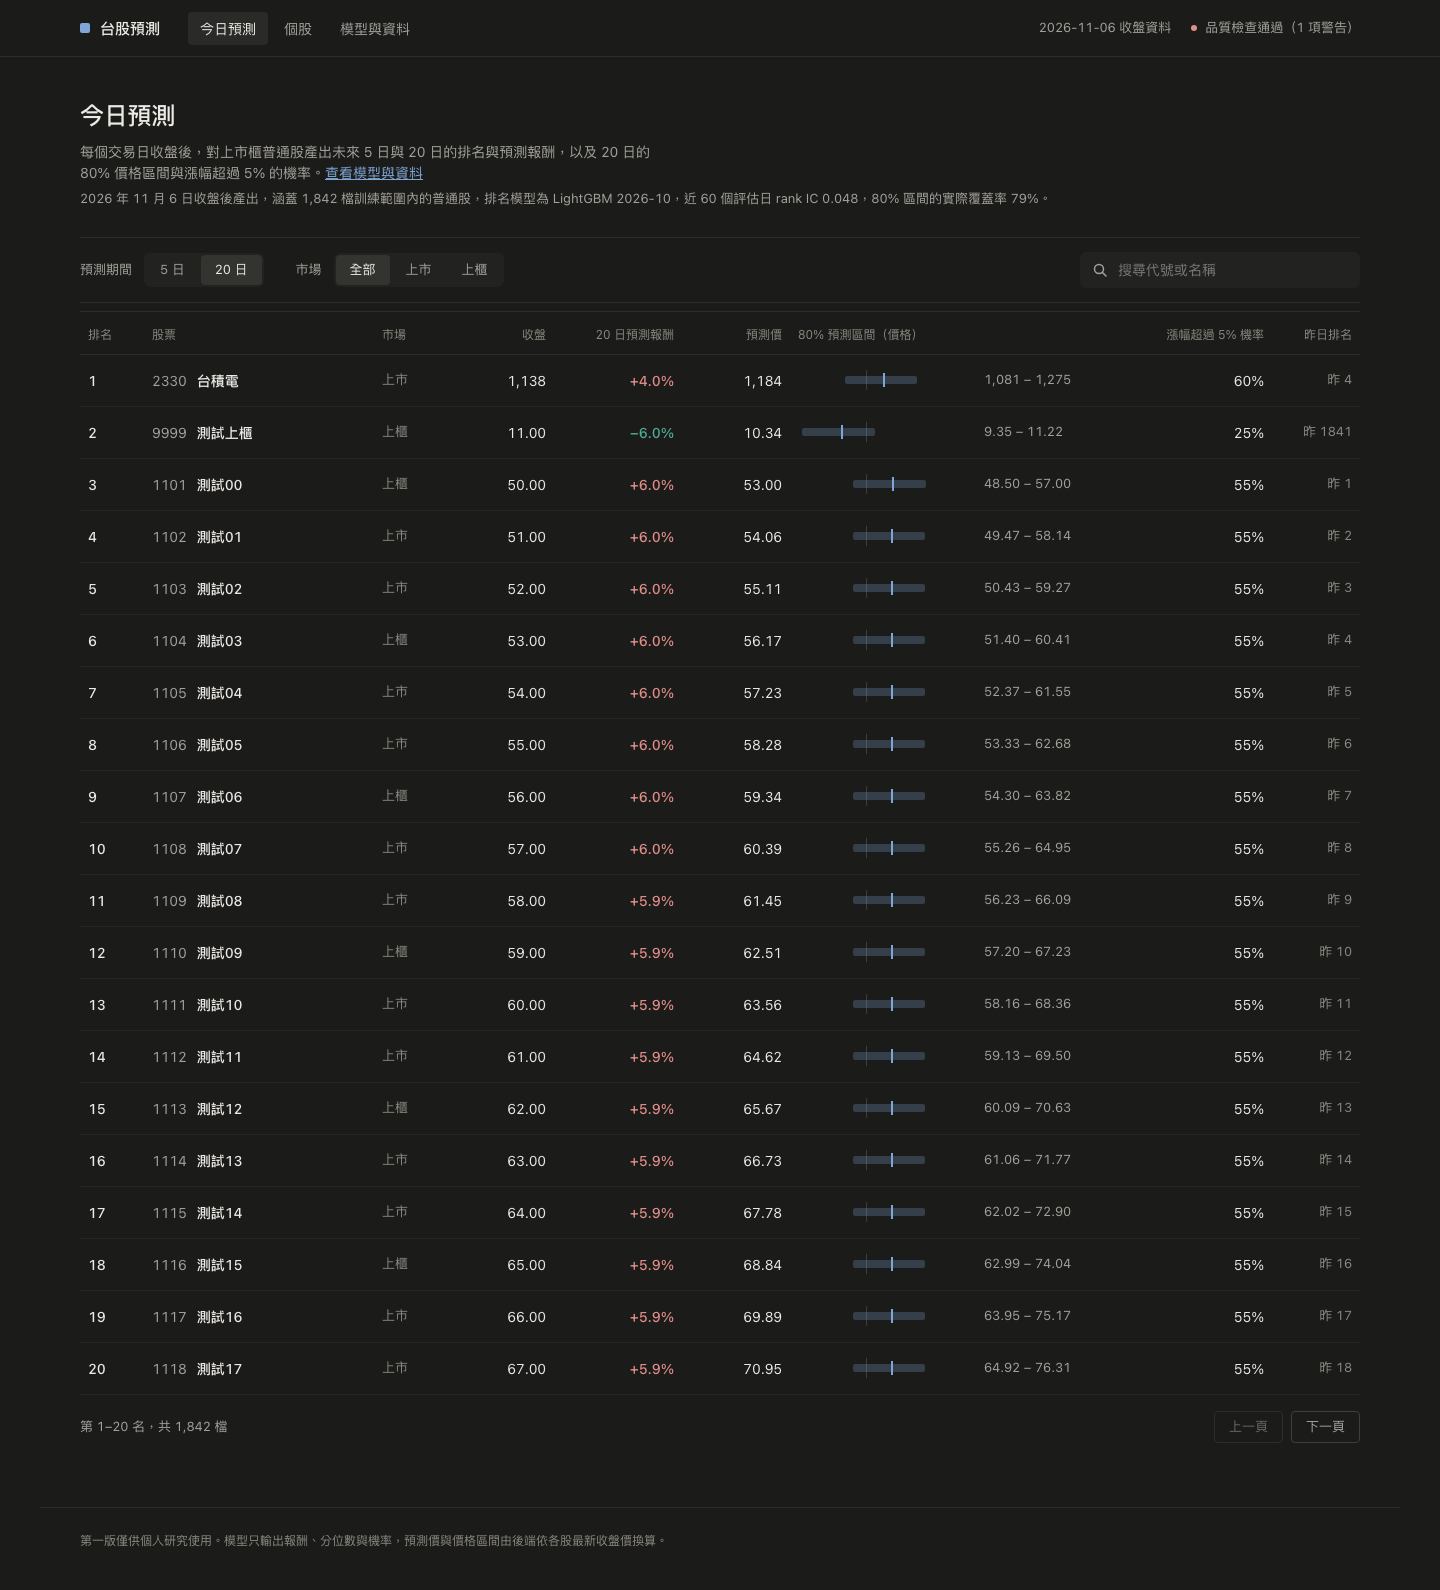
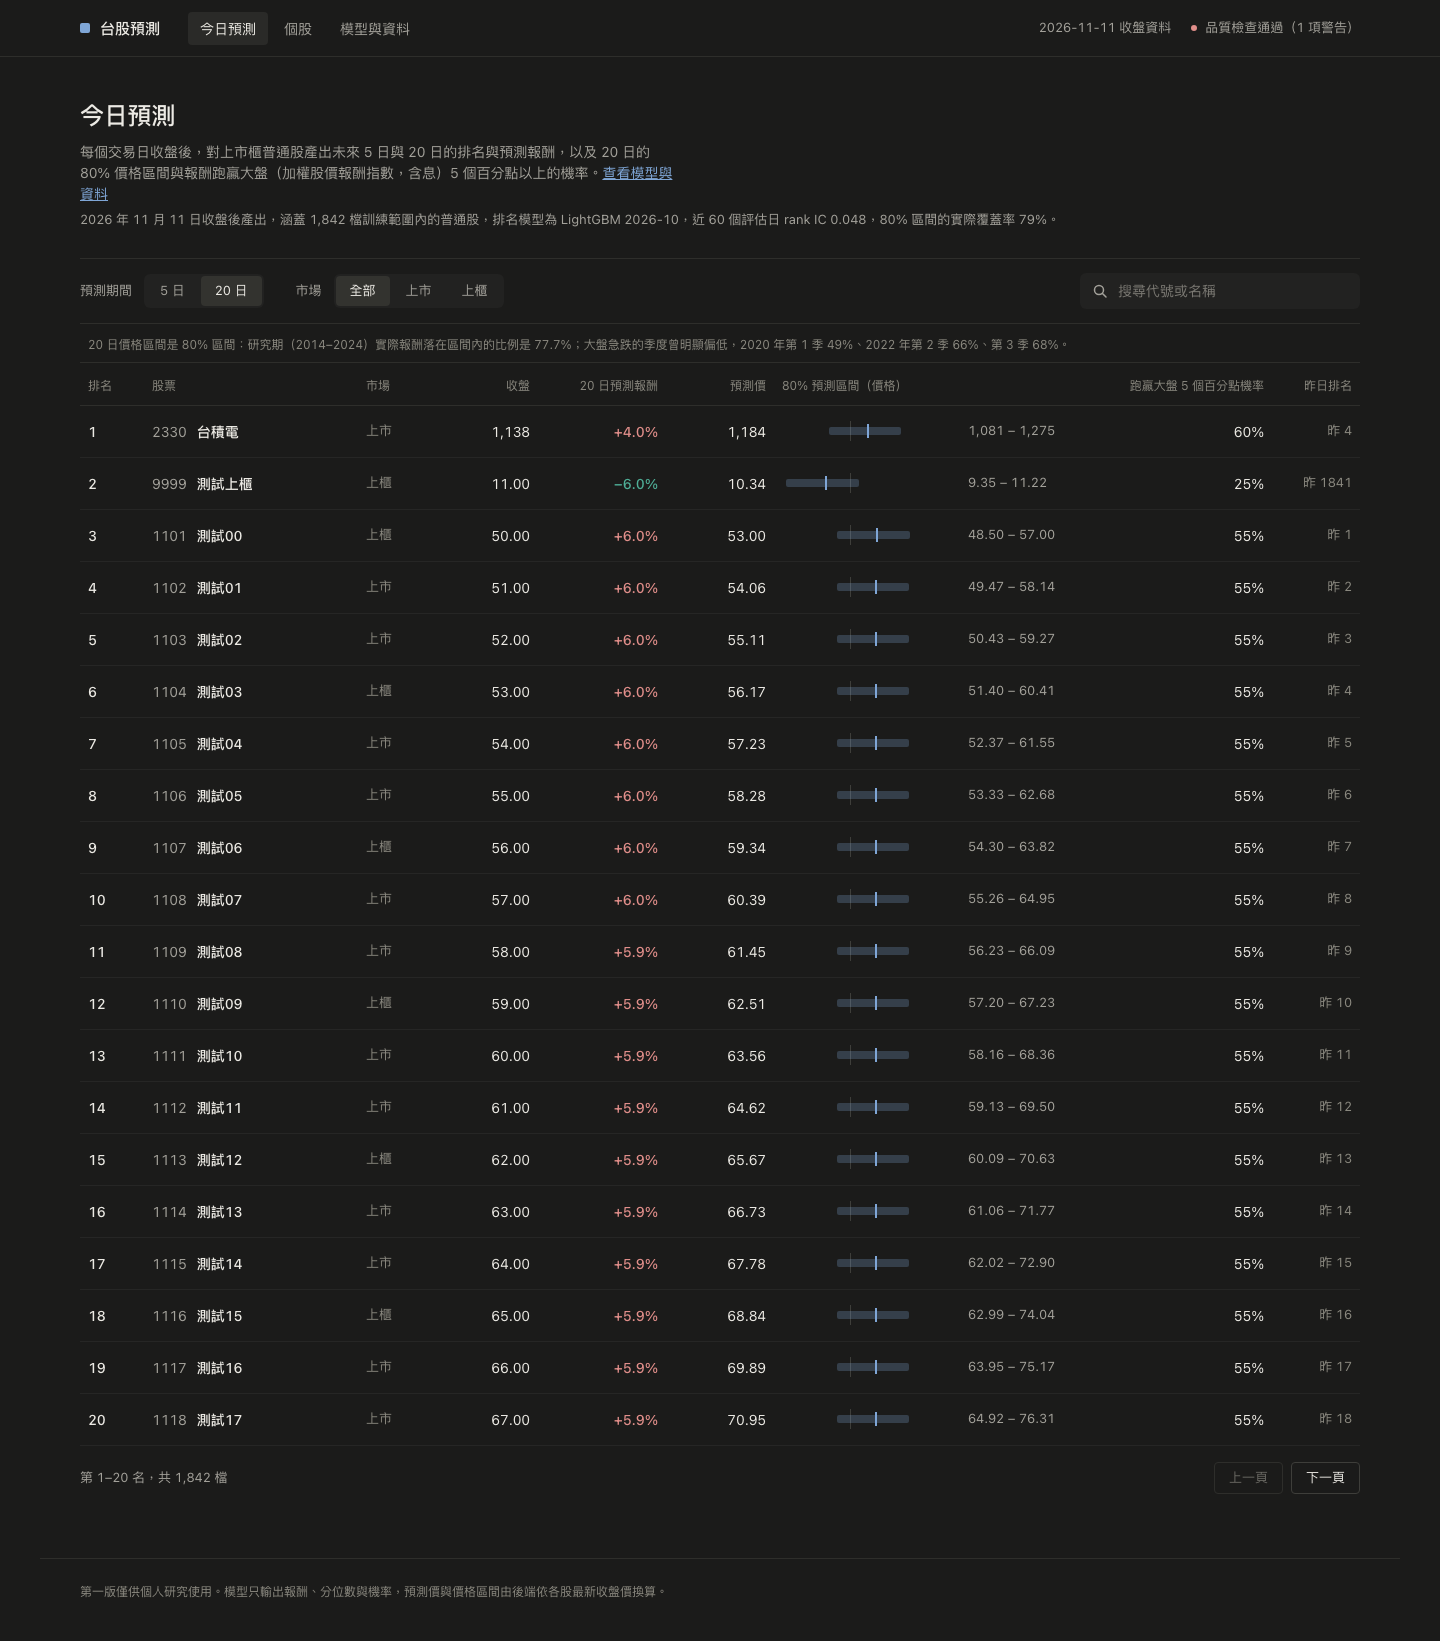
docs: describe the probability against the market and recapture the seed views

diff --git a/README.md b/README.md
@@ -1,6 +1,6 @@
 # stock-prediction-platform
 
-A daily prediction platform for common stocks listed on the Taiwan Stock Exchange (TWSE) and the Taipei Exchange (TPEx). After each close it produces, for the next 5 and 20 trading days, a return ranking, predicted returns with price intervals, and the probability of a rise. The specification is [docs/SPEC.md](docs/SPEC.md). For personal research use; see section 3 of the spec for the data licensing restrictions.
+A daily prediction platform for common stocks listed on the Taiwan Stock Exchange (TWSE) and the Taipei Exchange (TPEx). After each close it produces, for the next 5 and 20 trading days, a return ranking, predicted returns with price intervals, and the probability of beating the market. The specification is [docs/SPEC.md](docs/SPEC.md). For personal research use; see section 3 of the spec for the data licensing restrictions.
 
 The spec, the runbook and the web pages are written in Traditional Chinese.
 
@@ -20,7 +20,7 @@ The UI is a single page with three views, switched by the `#` fragment of the UR
 
 | View | URL | Content | Data needed |
 | --- | --- | --- | --- |
-| Today's predictions (今日預測) | `/#today` | Market-wide 5-day and 20-day rankings and predicted returns, the 20-day 80% price interval and the probability of gaining more than 5%; supports search and a watchlist-only filter | A live model |
+| Today's predictions (今日預測) | `/#today` | Market-wide 5-day and 20-day rankings and predicted returns, the 20-day 80% price interval and the probability that the 20-day return beats the market (the TAIEX total return index, dividends included) by 5 percentage points or more; supports search and a watchlist-only filter | A live model |
 | Stock (個股) | `/#stock-2330` | Candlestick or closing-price chart, how this prediction came about (feature contributions), past predictions against actual outcomes | Prices; the prediction blocks need a live model |
 | Models and data (模型與資料) | `/#models` | The live models, monthly rank IC against the baseline, today's data updates, data-quality and model-output checks, the data correction log | ETL records; the model blocks need a live model |
 

diff --git a/docs/SPEC.md b/docs/SPEC.md
@@ -18,7 +18,7 @@ Oct 29, 2026 · @Owen Lai
 
 - 相對目標（排名）：未來 5 與 20 個交易日的還原報酬率，轉成每日橫截面百分位排名；評估用 rank IC。
 - 絕對目標（報酬）：5 日直接回歸未來 5 個交易日的還原報酬率，20 日取分位數模型的中位數 q50，不另訓模型。模型層只輸出報酬，展示層再依每檔股票自己的最新收盤價換算：預測價 = 收盤價 × (1 + 預測報酬)。
-- 區間與機率目標：分位數回歸（10%、50%、90%）給出報酬區間並換算成價格區間，是展示用的主區間；波動率模型預測未來 20 日實現波動，只做 fallback 與 sanity check；分類模型給出 20 日漲幅超過 5% 的機率。5 日的價格區間只由 API 提供（波動率區間，見第 7 節輸出一致性），頁面不展示。
+- 區間與機率目標：分位數回歸（10%、50%、90%）給出報酬區間並換算成價格區間，是展示用的主區間；波動率模型預測未來 20 日實現波動，只做 fallback 與 sanity check；分類模型給出 20 日報酬跑贏大盤（加權股價報酬指數，含息）5 個百分點以上的機率（見第 7 節三類預測目標）。5 日的價格區間只由 API 提供（波動率區間，見第 7 節輸出一致性），頁面不展示。
 - 三類目標共用同一組特徵，分別評估、分別上線；輸出之間的一致性規則見第 7 節。
 
 **範圍內**
